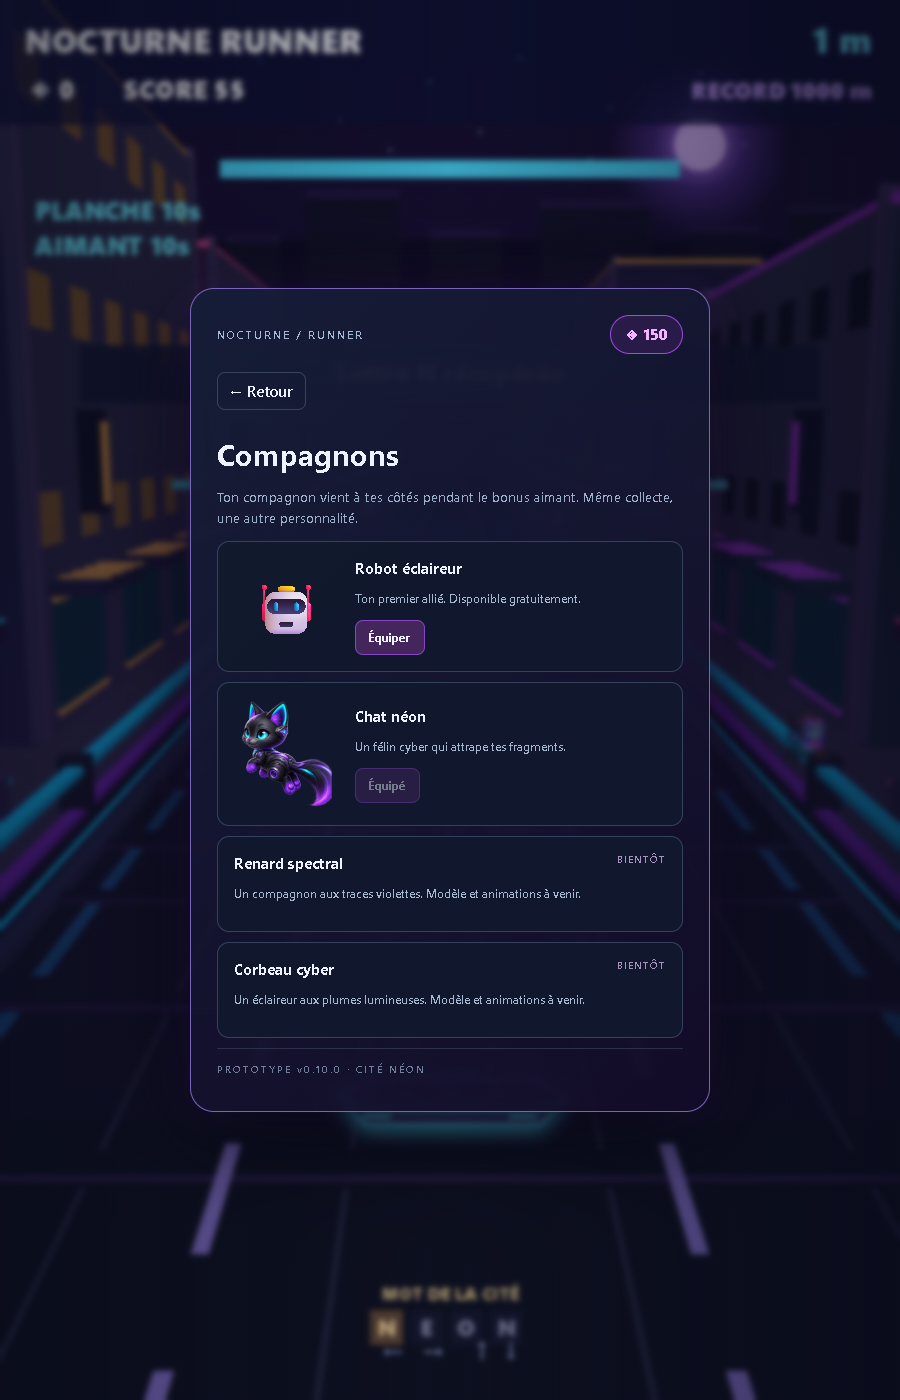
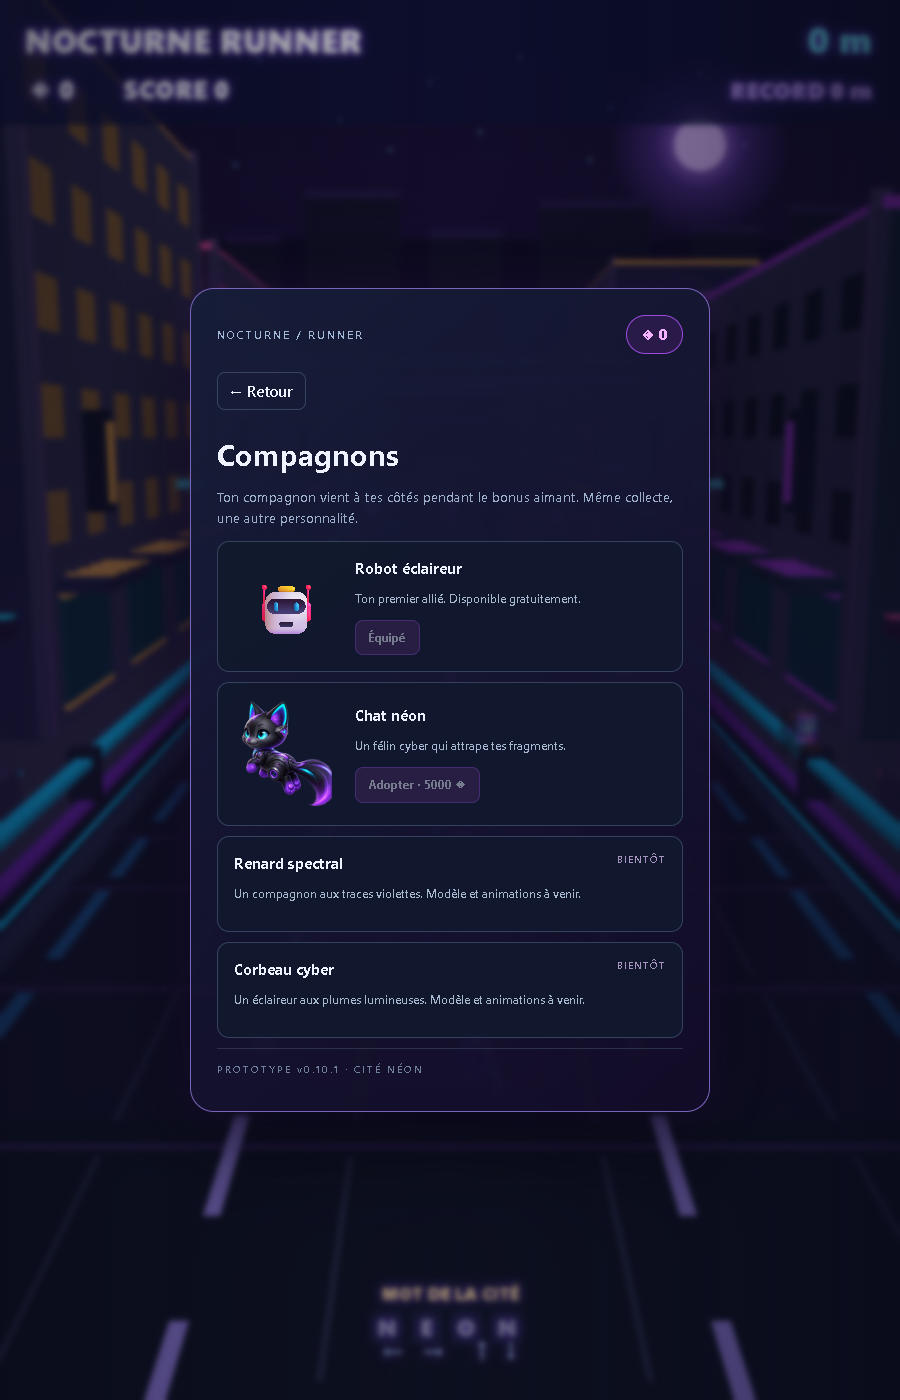
Slow progression and preserve existing unlocks

diff --git a/profile.js b/profile.js
@@ -1,9 +1,11 @@
 (()=>{'use strict';
-const KEY='nocturneRunnerProfileV1',names={board:'Planche spectrale',magnet:'Aimant énergétique',surcharge:'Surcharge',propulsion:'Propulsion'},costs=[60,140,280,480,760];
-const profile={wallet:0,levels:{board:0,magnet:0,surcharge:0,propulsion:0},options:{effects:true,quality:'high'},stats:{crystals:0,distance:0,jumps:0,dodges:0},claimed:[],word:{completed:0,found:[]},ownedPets:['robot'],pet:'robot',character:'runner'};
-let durable=true,audio=null;
+const ECONOMY={upgradeCosts:[600,1500,3200,6000,10000],catPrice:5000,novaWords:20,wordBase:30,wordPerLetter:5};
+window.NREconomy=ECONOMY;
+const KEY='nocturneRunnerProfileV1',names={board:'Planche spectrale',magnet:'Aimant énergétique',surcharge:'Surcharge',propulsion:'Propulsion'},costs=ECONOMY.upgradeCosts;
+const profile={wallet:0,levels:{board:0,magnet:0,surcharge:0,propulsion:0},options:{effects:true,quality:'high'},stats:{crystals:0,distance:0,jumps:0,dodges:0},claimed:[],word:{completed:0,found:[]},ownedPets:['robot'],pet:'robot',character:'runner',unlockedCharacters:['runner'],economyVersion:2};
+let durable=true,audio=null,migrated=false;
 try{const data=JSON.parse(localStorage.getItem(KEY)||'null');if(data){for(const key of ['wallet'])profile[key]=Math.max(0,Math.floor(Number(data[key])||0));for(const key in profile.levels)profile.levels[key]=Math.max(0,Math.min(5,Math.floor(Number(data.levels?.[key])||0)));for(const key in profile.stats)profile.stats[key]=Math.max(0,Math.floor(Number(data.stats?.[key])||0));profile.options.effects=data.options?.effects!==false;profile.options.quality=data.options?.quality==='low'?'low':'high';profile.claimed=Array.isArray(data.claimed)?data.claimed.filter(v=>typeof v==='string'):[];}
-if(data){profile.word.completed=Math.max(0,Math.floor(Number(data.word?.completed)||0));profile.word.found=Array.isArray(data.word?.found)?data.word.found.map(v=>v===true):[];profile.ownedPets=Array.isArray(data.ownedPets)&&data.ownedPets.includes('cat')?['robot','cat']:['robot'];profile.pet=data.pet==='cat'&&profile.ownedPets.includes('cat')?'cat':'robot';profile.character=data.character==='nova'&&profile.word.completed>=4?'nova':'runner';}
+if(data){profile.word.completed=Math.max(0,Math.floor(Number(data.word?.completed)||0));profile.word.found=Array.isArray(data.word?.found)?data.word.found.map(v=>v===true):[];profile.ownedPets=Array.isArray(data.ownedPets)&&data.ownedPets.includes('cat')?['robot','cat']:['robot'];profile.pet=data.pet==='cat'&&profile.ownedPets.includes('cat')?'cat':'robot';if((data.economyVersion!==2&&profile.word.completed>=4)||(Array.isArray(data.unlockedCharacters)&&data.unlockedCharacters.includes('nova'))||profile.word.completed>=ECONOMY.novaWords)profile.unlockedCharacters.push('nova');profile.character=data.character==='nova'&&profile.unlockedCharacters.includes('nova')?'nova':'runner';migrated=data.economyVersion!==2;}
 }catch{durable=false;}
 function save(){try{localStorage.setItem(KEY,JSON.stringify(profile));durable=true;}catch{durable=false;}refreshMenu();if(!durable)notice('Sauvegarde indisponible : progression conservée uniquement pendant cette session.');}
 function notice(s){document.querySelector('#notice').textContent=s;}
@@ -16,14 +18,14 @@ profile.nextLetter=()=>{const slot=profile.word.found.findIndex(v=>!v);return {s
 profile.collectLetter=o=>{
  if(o.wordId!==profile.word.completed||o.slot<0||o.slot>=profile.word.found.length||profile.word.found[o.slot]||profile.currentWord().letters[o.slot]!==o.letter)return null;
  profile.word.found[o.slot]=true;let message='Lettre '+o.letter+' récupérée';
- if(profile.word.found.every(Boolean)){const label=profile.currentWord().label,reward=50+profile.word.found.length*10;profile.wallet+=reward;profile.word.completed++;profile.word.found=Array(profile.currentWord().letters.length).fill(false);message=label+' complété · +'+reward+' ◈';if(profile.word.completed===4)message+=' · NOVA DÉBLOQUÉE';}
+ if(profile.word.found.every(Boolean)){const label=profile.currentWord().label,reward=ECONOMY.wordBase+profile.word.found.length*ECONOMY.wordPerLetter;profile.wallet+=reward;profile.word.completed++;profile.word.found=Array(profile.currentWord().letters.length).fill(false);message=label+' complété · +'+reward+' ◈';if(profile.word.completed>=ECONOMY.novaWords&&!profile.unlockedCharacters.includes('nova')){profile.unlockedCharacters.push('nova');message+=' · NOVA DÉBLOQUÉE';}}
  save();return message;
 };
-profile.buyPet=id=>{if(id!=='cat'||profile.ownedPets.includes(id)||profile.wallet<250)return false;profile.wallet-=250;profile.ownedPets.push(id);profile.pet=id;save();return true;};
+profile.buyPet=id=>{if(id!=='cat'||profile.ownedPets.includes(id)||profile.wallet<ECONOMY.catPrice)return false;profile.wallet-=ECONOMY.catPrice;profile.ownedPets.push(id);profile.pet=id;save();return true;};
 profile.equipPet=id=>{if(!profile.ownedPets.includes(id))return false;profile.pet=id;save();window.NRGame?.preview();return true;};
-profile.equipCharacter=id=>{if(id!=='runner'&&(id!=='nova'||profile.word.completed<4))return false;profile.character=id;save();window.NRGame?.preview();return true;};
+profile.equipCharacter=id=>{if(id!=='runner'&&(id!=='nova'||!profile.unlockedCharacters.includes('nova')))return false;profile.character=id;save();window.NRGame?.preview();return true;};
 function wordTiles(){return '<div class="word-tiles">'+[...profile.currentWord().letters].map((c,i)=>'<span class="'+(profile.word.found[i]?'found':'')+'">'+c+'</span>').join('')+'</div>';}
-function characterCard(id,title,description){const nova=id==='nova',unlocked=!nova||profile.word.completed>=4;return '<article class="card collection-card"><canvas class="portrait '+(nova?'nova-portrait':'runner-portrait')+'" width="210" height="370" aria-hidden="true"></canvas><div><h3>'+title+'</h3><p>'+description+'</p>'+(nova&&!unlocked?'<p>'+Math.min(4,profile.word.completed)+'/4 mots complétés pour la débloquer.</p>':'')+'<button data-character="'+id+'" '+(!unlocked||profile.character===id?'disabled':'')+'>'+(profile.character===id?'Équipé':unlocked?'Équiper':'À gagner')+'</button></div></article>';}
+function characterCard(id,title,description){const nova=id==='nova',unlocked=!nova||profile.unlockedCharacters.includes('nova');return '<article class="card collection-card"><canvas class="portrait '+(nova?'nova-portrait':'runner-portrait')+'" width="210" height="370" aria-hidden="true"></canvas><div><h3>'+title+'</h3><p>'+description+'</p>'+(nova&&!unlocked?'<p>'+Math.min(ECONOMY.novaWords,profile.word.completed)+'/'+ECONOMY.novaWords+' mots complétés pour la débloquer.</p>':'')+'<button data-character="'+id+'" '+(!unlocked||profile.character===id?'disabled':'')+'>'+(profile.character===id?'Équipé':unlocked?'Équiper':'À gagner')+'</button></div></article>';}
 const missions=[{id:'crystals30',name:'Récolte nocturne',key:'crystals',goal:30,reward:40,unit:'cristaux au total'},{id:'distance250',name:'Première traversée',key:'distance',goal:250,reward:60,unit:'mètres en une course'},{id:'jumps15',name:'Au-dessus des néons',key:'jumps',goal:15,reward:40,unit:'sauts au total'},{id:'dodges20',name:'Instinct du runner',key:'dodges',goal:20,reward:60,unit:'obstacles évités'}];
 function paintPortraits(){document.querySelectorAll('canvas.portrait,canvas.cat-portrait').forEach(canvas=>{const nova=canvas.classList.contains('nova-portrait'),cat=canvas.classList.contains('cat-portrait');const image=new Image();image.onload=()=>{const rect=nova?NRSPRITES.nova.frames[0]:cat?NRSPRITES.cat.frames[0]:[0,0,image.naturalWidth,image.naturalHeight];const sc=Math.min((canvas.width-10)/rect[2],(canvas.height-10)/rect[3]);const w=rect[2]*sc,h=rect[3]*sc;canvas.getContext('2d').drawImage(image,...rect,(canvas.width-w)/2,(canvas.height-h)/2,w,h);};image.src=nova?'assets/nova-sheet.png':cat?'assets/cat-sheet.png':'nocturne runner/perso_dos/asset_01.png';});}
 let page='';
@@ -33,9 +35,9 @@ function levels(n){return '<div class="levels">'+Array.from({length:5},(_,i)=>'<
 function show(p){page=p;document.querySelector('#home-screen').hidden=true;document.querySelector('#detail-screen').hidden=false;document.querySelector('#notice').textContent='';const target=document.querySelector('#detail-content');document.querySelector('#detail-title').textContent={atelier:'Atelier',collection:'Personnages',boutique:'Compagnons',words:'Mots de la cité',missions:'Missions',options:'Options'}[p];
 if(p==='atelier')target.innerHTML='<p class="intro">Investis tes cristaux. Chaque achat améliore les prochaines courses.</p>'+Object.keys(names).map(k=>{const n=profile.levels[k],next=k==='propulsion'?`${4+n} s · vitesse +${Math.round((.22+n*.035)*100)} %`:`${8+n*2} secondes`;return `<article class="card"><div class="card-head"><h3>${names[k]}</h3><span class="tag">${n}/5</span></div><p>${k==='board'?'Absorbe un choc.':k==='magnet'?'Un compagnon attire les cristaux des trois voies.':k==='surcharge'?'Double les points pendant le bonus.':'Un boost par course, bouton ⚡ ou touche B.'} ${next}</p>${levels(n)}<button data-buy="${k}" ${n===5||profile.wallet<costs[n]?'disabled':''}>${n===5?'NIVEAU MAX':`Améliorer · ${costs[n]} ◈`}</button></article>`;}).join('');
 if(p==='missions')target.innerHTML='<p class="intro">La progression est comptabilisée à la fin de chaque course.</p>'+missions.map(m=>{const value=Math.min(m.goal,profile.stats[m.key]),claimed=profile.claimed.includes(m.id);return `<article class="card"><h3>${m.name}</h3><p>${value}/${m.goal} ${m.unit}</p><progress value="${value}" max="${m.goal}"></progress><p>Récompense : ${m.reward} ◈</p><button data-claim="${m.id}" ${claimed||value<m.goal?'disabled':''}>${claimed?'Récupérée':'Récupérer'}</button></article>`;}).join('');
-if(p==='collection')target.innerHTML='<p class="intro">Choisis ton runner. Les personnages partagent les mêmes capacités.</p>'+characterCard('runner','Runner Nocturne','Le premier explorateur de la cité néon.')+characterCard('nova','Nova','Circuits cyan, cheveux violets et détermination. Complète NÉON, OMBRE, NOVA et ÉCLIPSE.');
-if(p==='boutique')target.innerHTML='<p class="intro">Ton compagnon vient à tes côtés pendant le bonus aimant. Même collecte, une autre personnalité.</p><article class="card collection-card"><div class="pet-icon">🤖</div><div><h3>Robot éclaireur</h3><p>Ton premier allié. Disponible gratuitement.</p><button data-pet="robot" '+(profile.pet==='robot'?'disabled':'')+'>'+(profile.pet==='robot'?'Équipé':'Équiper')+'</button></div></article><article class="card collection-card"><canvas class="cat-portrait" width="210" height="220" aria-hidden="true"></canvas><div><h3>Chat néon</h3><p>Un félin cyber qui attrape tes fragments.</p><button '+(profile.ownedPets.includes('cat')?'data-pet="cat"':'data-pet-buy="cat"')+' '+(profile.pet==='cat'||(!profile.ownedPets.includes('cat')&&profile.wallet<250)?'disabled':'')+'>'+(profile.pet==='cat'?'Équipé':profile.ownedPets.includes('cat')?'Équiper':'Adopter · 250 ◈')+'</button></div></article><article class="card"><div class="card-head"><h3>Renard spectral</h3><span class="tag">BIENTÔT</span></div><p>Un compagnon aux traces violettes. Modèle et animations à venir.</p></article><article class="card"><div class="card-head"><h3>Corbeau cyber</h3><span class="tag">BIENTÔT</span></div><p>Un éclaireur aux plumes lumineuses. Modèle et animations à venir.</p></article>';
-if(p==='words')target.innerHTML='<p class="intro">Ramasse les lettres dorées sur la route. Les accents ne sont pas à collecter. Chaque mot terminé rapporte des cristaux immédiatement.</p><article class="card"><div class="card-head"><h3>'+profile.currentWord().label+'</h3><span class="tag">'+(50+profile.word.found.length*10)+' ◈</span></div>'+wordTiles()+'<p>'+profile.word.completed+' mots complétés · progression sauvegardée à chaque lettre.</p></article><article class="card"><h3>Le chemin de Nova</h3><p>NÉON → OMBRE → NOVA → ÉCLIPSE</p><progress value="'+Math.min(4,profile.word.completed)+'" max="4"></progress><p>'+Math.min(4,profile.word.completed)+'/4 mots · '+(profile.word.completed>=4?'Nova est disponible dans Personnages.':'Complète cette série pour gagner Nova.')+'</p></article>';
+if(p==='collection')target.innerHTML='<p class="intro">Choisis ton runner. Les personnages partagent les mêmes capacités.</p>'+characterCard('runner','Runner Nocturne','Le premier explorateur de la cité néon.')+characterCard('nova','Nova','Circuits cyan, cheveux violets et détermination. Complète cinq fois la série NÉON, OMBRE, NOVA et ÉCLIPSE.');
+if(p==='boutique')target.innerHTML='<p class="intro">Ton compagnon vient à tes côtés pendant le bonus aimant. Même collecte, une autre personnalité.</p><article class="card collection-card"><div class="pet-icon">🤖</div><div><h3>Robot éclaireur</h3><p>Ton premier allié. Disponible gratuitement.</p><button data-pet="robot" '+(profile.pet==='robot'?'disabled':'')+'>'+(profile.pet==='robot'?'Équipé':'Équiper')+'</button></div></article><article class="card collection-card"><canvas class="cat-portrait" width="210" height="220" aria-hidden="true"></canvas><div><h3>Chat néon</h3><p>Un félin cyber qui attrape tes fragments.</p><button '+(profile.ownedPets.includes('cat')?'data-pet="cat"':'data-pet-buy="cat"')+' '+(profile.pet==='cat'||(!profile.ownedPets.includes('cat')&&profile.wallet<ECONOMY.catPrice)?'disabled':'')+'>'+(profile.pet==='cat'?'Équipé':profile.ownedPets.includes('cat')?'Équiper':'Adopter · '+ECONOMY.catPrice+' ◈')+'</button></div></article><article class="card"><div class="card-head"><h3>Renard spectral</h3><span class="tag">BIENTÔT</span></div><p>Un compagnon aux traces violettes. Modèle et animations à venir.</p></article><article class="card"><div class="card-head"><h3>Corbeau cyber</h3><span class="tag">BIENTÔT</span></div><p>Un éclaireur aux plumes lumineuses. Modèle et animations à venir.</p></article>';
+if(p==='words')target.innerHTML='<p class="intro">Ramasse les lettres dorées sur la route. Les accents ne sont pas à collecter. Chaque mot terminé rapporte des cristaux immédiatement.</p><article class="card"><div class="card-head"><h3>'+profile.currentWord().label+'</h3><span class="tag">'+(ECONOMY.wordBase+profile.word.found.length*ECONOMY.wordPerLetter)+' ◈</span></div>'+wordTiles()+'<p>'+profile.word.completed+' mots complétés · progression sauvegardée à chaque lettre.</p></article><article class="card"><h3>Le chemin de Nova</h3><p>NÉON → OMBRE → NOVA → ÉCLIPSE</p><progress value="'+Math.min(ECONOMY.novaWords,profile.word.completed)+'" max="'+ECONOMY.novaWords+'"></progress><p>'+Math.min(ECONOMY.novaWords,profile.word.completed)+'/'+ECONOMY.novaWords+' mots · '+(profile.unlockedCharacters.includes('nova')?'Nova est disponible dans Personnages.':'Complète cinq séries pour gagner Nova.')+'</p></article>';
 if(p==='options')target.innerHTML=`<article class="card"><label class="option">Effets sonores<input id="effects" type="checkbox" ${profile.options.effects?'checked':''}></label><label class="option">Qualité graphique<select id="quality"><option value="high" ${profile.options.quality==='high'?'selected':''}>Élevée</option><option value="low" ${profile.options.quality==='low'?'selected':''}>Économique</option></select></label><p>Économique : moins de fenêtres et d’effets lumineux.</p><div class="option">Musique <span class="tag">BIENTÔT</span></div></article><article class="card"><h3>Commandes</h3><p>← → : changer de voie<br>↑ ou espace : sauter<br>↓ : glisser sous les lasers<br>B : propulsion · Échap : pause<br>Mobile : gestes directionnels, bouton ⚡ pour le boost.</p><p>Caisse et barrière : saut ou esquive. Conteneur : esquive. Portique laser : glissade ou esquive.</p></article>`;
 paintPortraits();
 }
@@ -43,5 +45,5 @@ document.querySelectorAll('[data-page]').forEach(b=>b.addEventListener('click',(
 document.querySelector('#back').addEventListener('click',()=>{document.querySelector('#detail-screen').hidden=true;document.querySelector('#home-screen').hidden=false;notice('');});
 document.querySelector('#detail-content').addEventListener('click',e=>{const b=e.target.closest('button');if(!b||b.disabled)return;let message='';if(b.dataset.petBuy&&profile.buyPet(b.dataset.petBuy))message='Chat néon adopté et équipé.';if(b.dataset.pet&&profile.equipPet(b.dataset.pet))message='Compagnon équipé.';if(b.dataset.character&&profile.equipCharacter(b.dataset.character))message='Personnage équipé.';if(message){show(page);notice(message);return;}if(b.dataset.buy){const k=b.dataset.buy,n=profile.levels[k];if(n>=5||profile.wallet<costs[n])return;profile.wallet-=costs[n];profile.levels[k]++;save();show(page);notice(names[k]+' améliorée.');}if(b.dataset.claim){const m=missions.find(m=>m.id===b.dataset.claim);if(!m||profile.claimed.includes(m.id)||profile.stats[m.key]<m.goal)return;profile.claimed.push(m.id);profile.wallet+=m.reward;save();show(page);notice('+'+m.reward+' cristaux reçus.');}});
 document.querySelector('#detail-content').addEventListener('change',e=>{if(e.target.id==='effects'){profile.options.effects=e.target.checked;profile.sound(700);}if(e.target.id==='quality')profile.options.quality=e.target.value;save();});
-refreshMenu();if(!durable)notice('Sauvegarde indisponible dans ce navigateur.');
+refreshMenu();if(migrated){migrated=false;save();}if(!durable)notice('Sauvegarde indisponible dans ce navigateur.');
 })();

diff --git a/index.html b/index.html
@@ -1,1 +1,1 @@
-<!doctype html><html lang="fr"><head><meta charset="utf-8"><meta name="viewport" content="width=device-width,initial-scale=1,viewport-fit=cover"><title>Nocturne Runner · v0.10.0</title><link rel="stylesheet" href="menu.css"></head><body><div id="app"><canvas id="game" width="900" height="1400"></canvas></div><button id="pause" class="hidden" aria-label="Pause">Ⅱ</button><button id="boost-control" class="hidden">⚡ BOOST · B</button><div id="overlay"><main class="panel"><header><span class="eyebrow">NOCTURNE / RUNNER</span><span class="wallet" id="wallet">◈ 0</span></header><section id="home-screen"><div class="brand">NOCTURNE<span>RUNNER</span></div><div class="eyebrow" id="screen-title">LA CITÉ T’ATTEND</div><div id="msg">Trois voies. Une cité. Repousse tes limites.</div><button id="start" class="primary">JOUER <span>→</span></button><nav><button data-page="atelier">◈ Atelier<small>Améliore tes bonus</small></button><button data-page="collection">◆ Personnages<small>Nova à débloquer</small></button><button data-page="boutique">♧ Compagnons<small>Adopte un allié néon</small></button><button data-page="words">✧ Mots de la cité<small>Lettres & récompenses</small></button><button data-page="missions">◎ Missions<small>Gagne des cristaux</small></button><button data-page="options">⚙ Options<small>Ton expérience de jeu</small></button></nav><p class="hint">← → Voies · ↑ Saut · ↓ Glissade · B Boost<br>Mobile : gestes directionnels et bouton boost</p></section><section id="detail-screen" hidden><button id="back" class="back">← Retour</button><h2 id="detail-title"></h2><div id="detail-content"></div></section><footer>PROTOTYPE v0.10.0 · CITÉ NÉON</footer><div id="notice" role="status" aria-live="polite"></div></main></div><script src="profile.js"></script><script src="road3d.js"></script><script src="assets/sprites.js"></script><script src="game.js"></script></body></html>
+<!doctype html><html lang="fr"><head><meta charset="utf-8"><meta name="viewport" content="width=device-width,initial-scale=1,viewport-fit=cover"><title>Nocturne Runner · v0.10.1</title><link rel="stylesheet" href="menu.css"></head><body><div id="app"><canvas id="game" width="900" height="1400"></canvas></div><button id="pause" class="hidden" aria-label="Pause">Ⅱ</button><button id="boost-control" class="hidden">⚡ BOOST · B</button><div id="overlay"><main class="panel"><header><span class="eyebrow">NOCTURNE / RUNNER</span><span class="wallet" id="wallet">◈ 0</span></header><section id="home-screen"><div class="brand">NOCTURNE<span>RUNNER</span></div><div class="eyebrow" id="screen-title">LA CITÉ T’ATTEND</div><div id="msg">Trois voies. Une cité. Repousse tes limites.</div><button id="start" class="primary">JOUER <span>→</span></button><nav><button data-page="atelier">◈ Atelier<small>Améliore tes bonus</small></button><button data-page="collection">◆ Personnages<small>Nova à débloquer</small></button><button data-page="boutique">♧ Compagnons<small>Adopte un allié néon</small></button><button data-page="words">✧ Mots de la cité<small>Lettres & récompenses</small></button><button data-page="missions">◎ Missions<small>Gagne des cristaux</small></button><button data-page="options">⚙ Options<small>Ton expérience de jeu</small></button></nav><p class="hint">← → Voies · ↑ Saut · ↓ Glissade · B Boost<br>Mobile : gestes directionnels et bouton boost</p></section><section id="detail-screen" hidden><button id="back" class="back">← Retour</button><h2 id="detail-title"></h2><div id="detail-content"></div></section><footer>PROTOTYPE v0.10.1 · CITÉ NÉON</footer><div id="notice" role="status" aria-live="polite"></div></main></div><script src="profile.js"></script><script src="road3d.js"></script><script src="assets/sprites.js"></script><script src="game.js"></script></body></html>

diff --git a/game.js b/game.js
@@ -213,7 +213,7 @@
     for(const l of blocked.slice(0,count))objects.push({lane:l,z,type:hazards[wave%4],hit:false});
     for(let j=0;j<5;j++)objects.push({lane:safeLane,z:z+5-j*2.3,type:'crystal',hit:false});
     if(wave%3===1)objects.push({lane:safeLane,z:z-9,type:['board','magnet','surcharge'][Math.floor(wave/3)%3],hit:false});
-    if(wave%2===0){const w=NRProfile.currentWord();const available=[...w.letters].map((letter,slot)=>({letter,slot,wordId:NRProfile.word.completed})).filter(o=>!NRProfile.word.found[o.slot]&&!objects.some(p=>p.type==='letter'&&!p.hit&&p.wordId===o.wordId&&p.slot===o.slot));if(available.length)objects.push({lane:safeLane,z:z-13,type:'letter',hit:false,...available[0]});}
+    if(wave%4===0){const w=NRProfile.currentWord();const available=[...w.letters].map((letter,slot)=>({letter,slot,wordId:NRProfile.word.completed})).filter(o=>!NRProfile.word.found[o.slot]&&!objects.some(p=>p.type==='letter'&&!p.hit&&p.wordId===o.wordId&&p.slot===o.slot));if(available.length)objects.push({lane:safeLane,z:z-13,type:'letter',hit:false,...available[0]});}
     wave++;
   }
   function update(dt){

diff --git a/README.md b/README.md
@@ -1,6 +1,6 @@
 # Nocturne Runner
 
-Prototype v0.10.0 : endless runner dans une cité néon.
+Prototype v0.10.1 : endless runner dans une cité néon.
 
 ## Jouer
 
@@ -14,14 +14,24 @@ Ouvrir `index.html` dans Chrome ou Edge, ou servir le dossier avec un serveur lo
 
 Collecter les lettres holographiques dorées pour compléter la série **NÉON → OMBRE → NOVA → ÉCLIPSE**. Les accents ne sont pas à ramasser. Les lettres d'un même mot peuvent être récupérées dans n'importe quel ordre.
 
-Chaque lettre est sauvegardée immédiatement. Récompenses : 90 / 100 / 90 / 120 cristaux. Après quatre mots, **Nova** devient disponible dans Personnages. La série recommence ensuite et continue à rapporter des cristaux.
+Chaque lettre est sauvegardée immédiatement. Récompenses : 50 / 55 / 50 / 65 cristaux. Après vingt mots (cinq séries complètes), **Nova** devient disponible dans Personnages. La série recommence ensuite et continue à rapporter des cristaux.
 
 L'aimant ramasse les cristaux uniquement : les lettres se récupèrent en passant dans leur voie.
+
+## Équilibrage v0.10.1
+
+- Cinq niveaux par amélioration : 600 / 1 500 / 3 200 / 6 000 / 10 000 cristaux.
+- Chat néon : 5 000 cristaux.
+- Nova : 20 mots, soit cinq séries.
+- Une occasion de lettre toutes les quatre rangées, contre deux auparavant.
+- Récompenses des mots réduites ; collecte des fragments conservée.
+
+Les anciennes acquisitions sont conservées. Une Nova débloquée avant cette version reste disponible, même avec moins de vingt mots. Portefeuille, compagnons et niveaux déjà achetés sont conservés. Les nouveaux seuils s'appliquent aux achats et aux futurs déblocages. Ce réglage doit être ajusté avec les essais de jeu.
 
 ## Compagnons et personnages
 
 - Robot éclaireur : gratuit, équipé par défaut.
-- Chat néon : 250 cristaux, achat unique et sélection sauvegardée.
+- Chat néon : 5 000 cristaux, achat unique et sélection sauvegardée.
 - Compagnons visibles pendant l'aimant, avec animation de collecte.
 - Renard spectral et corbeau cyber : annoncés « Bientôt », sans achat.
 - Nova possède ses poses debout, course, saut et glissade. Les personnages ont les mêmes capacités.
